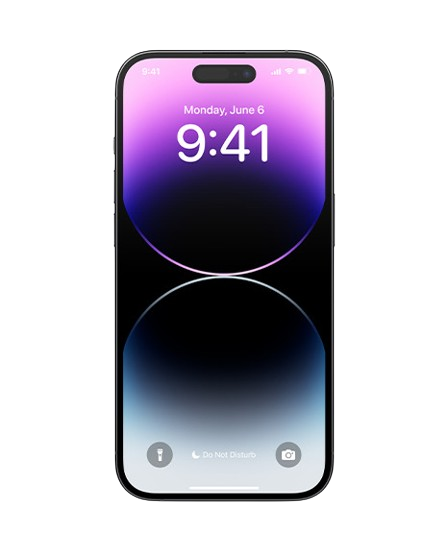
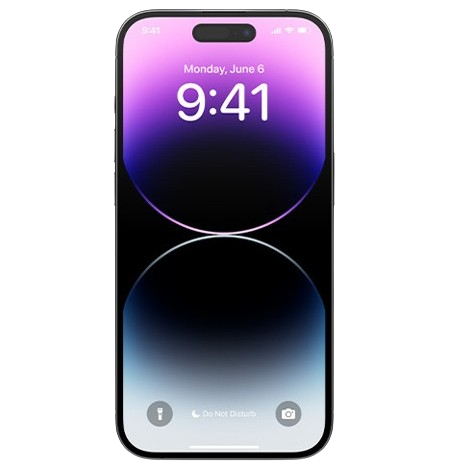
hero section finished

diff --git a/css/style.css b/css/style.css
@@ -69,9 +69,9 @@ img {
 /* CONTAINER */
 .container {
   width: 100%;
-  max-width: 1146px;
-  padding-left: 16px;
-  padding-right: 16px;
+  max-width: 1194px;
+  padding-left: 40px;
+  padding-right: 40px;
   margin-left: auto;
   margin-right: auto;
 }
@@ -155,9 +155,7 @@ img {
 .button:active {
   opacity: 0.6;
 }
-.hero__button {
-  margin-bottom: 50px;
-}
+
 .site-header-hero-wrapper {
   padding-top: 56px;
   background-color: var(--dark-purple);
@@ -189,4 +187,47 @@ img {
   max-width: 635px;
   margin-bottom: 36px;
   margin-top: 0;
+  font-weight: 600;
+}
+
+.hero__img{
+ display: block;
+}
+.hero__button {
+  margin-bottom: 50px;
+}
+
+/* media queries */
+@media only screen and (max-width: 768px) {
+   .site-header-hero-wrapper{
+    padding-top: 36px;
+   }
+   .site-header__container{
+    margin-bottom: 60px;
+   }
+   .hero__heading{
+    font-size: 60px;
+    line-height: 1;
+    max-width: 465px;
+    margin-bottom: 40px;
+    text-align: center;
+   }
+  
+}
+
+@media only screen and (max-width: 500px) {
+  .container{
+    padding-left: 16px;
+    padding-right: 16px;
+  }
+  .site-header__container{
+    margin-bottom: 64px;
+  }
+  .hero__heading{
+    font-size: 50px;
+    max-width: 80%;
+  }
+  .hero__button{
+    margin-bottom: 60px;
+  }
 }

diff --git a/index.html b/index.html
@@ -25,7 +25,7 @@
             Data <span class="underline-text">tailored</span> to your needs
           </h1>
           <a class="hero__button button" href="#">Learn more</a>
-          <img src="./img/iphone.png" alt="iphone" />
+          <img class="hero__img" src="./img/iphone.png" alt="iphone" />
         </div>
       </div>
     </div>
